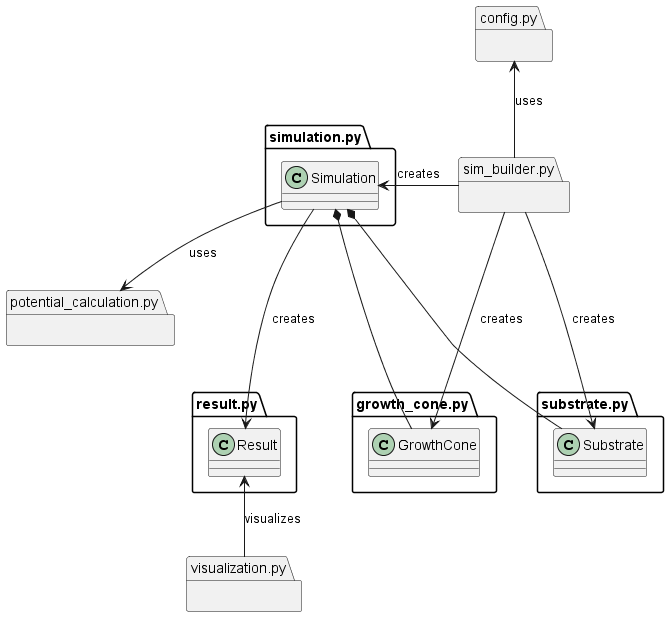
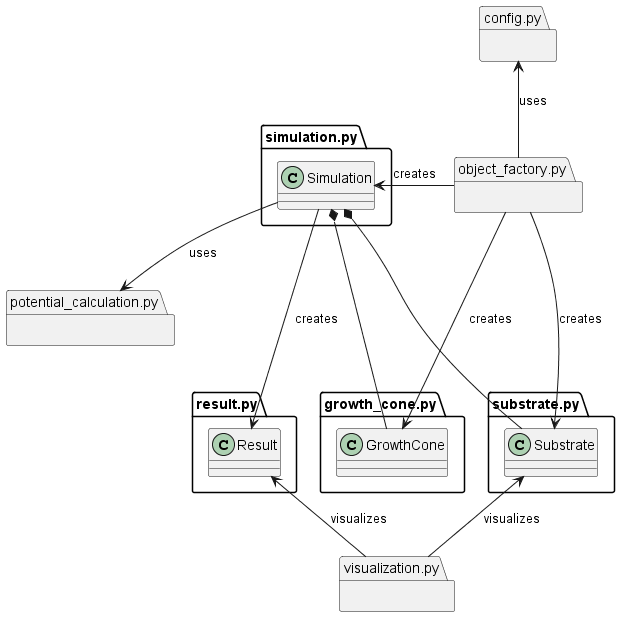
Diagram update

diff --git a/main.py b/main.py
@@ -1,4 +1,4 @@
-import sim_builder
+import object_factory
 from src.visualization import visualize_result
 
 
